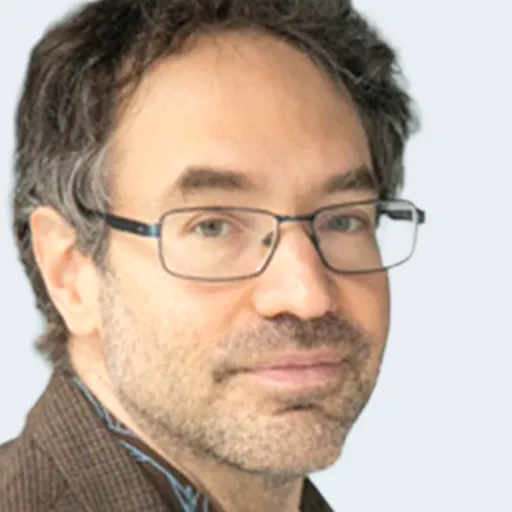
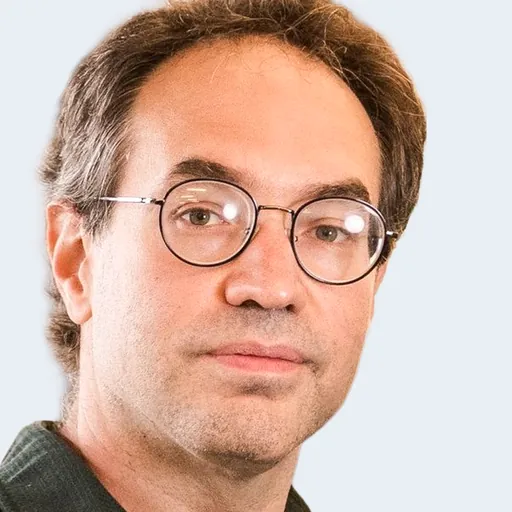
Ryan Baker's CIRCLS photo, cut hard rather than faded; plugin 1.1.2
The photo Brendan sent (circls.org, 488x631) is tighter than the Adelaide
one: cut at the crown, through his hair on the right, and across the
chest. 1.40x with the eye line 6% lower grounds him, down from 1.55x.
Clearing the cut through his hair would take 2.11x with the top of his
head off the tile, so a new 'hard' entry in THE EXCEPTIONS leaves his
photograph's edges as hard cuts with no fade, at the client's choice:
his hair is sliced on the right, and nothing of him fades. Every other
cut-out re-frames byte-for-byte unchanged.

The headshot ships in the plugin, so it is 1.1.2, with a changelog entry
and START-HERE describing it.

Claude-Session: https://claude.ai/code/session_01XG348wN5ByY34urU5UZMf6

diff --git a/wordpress-handoff/pages/approach.html b/wordpress-handoff/pages/approach.html
@@ -1,5 +1,5 @@
 <!doctype html>
-<!-- exported from 8ff23a9fbe66406bed281b73741681dc33480e87 by tools/export-static.mjs; index.html sha256 a05336308d6a4cd6 -->
+<!-- exported from a6083a7e9554353fb23b53a940c575bb207114e6 by tools/export-static.mjs; index.html sha256 a05336308d6a4cd6 -->
 <html lang="en"><head>
 <meta charset="utf-8">
 <meta name="viewport" content="width=device-width, initial-scale=1">

diff --git a/wordpress-handoff/pages/challenge.html b/wordpress-handoff/pages/challenge.html
@@ -1,5 +1,5 @@
 <!doctype html>
-<!-- exported from 8ff23a9fbe66406bed281b73741681dc33480e87 by tools/export-static.mjs; index.html sha256 a05336308d6a4cd6 -->
+<!-- exported from a6083a7e9554353fb23b53a940c575bb207114e6 by tools/export-static.mjs; index.html sha256 a05336308d6a4cd6 -->
 <html lang="en"><head>
 <meta charset="utf-8">
 <meta name="viewport" content="width=device-width, initial-scale=1">

diff --git a/wordpress-handoff/pages/follow.html b/wordpress-handoff/pages/follow.html
@@ -1,5 +1,5 @@
 <!doctype html>
-<!-- exported from 8ff23a9fbe66406bed281b73741681dc33480e87 by tools/export-static.mjs; index.html sha256 a05336308d6a4cd6 -->
+<!-- exported from a6083a7e9554353fb23b53a940c575bb207114e6 by tools/export-static.mjs; index.html sha256 a05336308d6a4cd6 -->
 <html lang="en"><head>
 <meta charset="utf-8">
 <meta name="viewport" content="width=device-width, initial-scale=1">

diff --git a/wordpress-handoff/pages/home.html b/wordpress-handoff/pages/home.html
@@ -1,5 +1,5 @@
 <!doctype html>
-<!-- exported from 8ff23a9fbe66406bed281b73741681dc33480e87 by tools/export-static.mjs; index.html sha256 a05336308d6a4cd6 -->
+<!-- exported from a6083a7e9554353fb23b53a940c575bb207114e6 by tools/export-static.mjs; index.html sha256 a05336308d6a4cd6 -->
 <html lang="en"><head>
 <meta charset="utf-8">
 <meta name="viewport" content="width=device-width, initial-scale=1">

diff --git a/wordpress-handoff/pages/team.html b/wordpress-handoff/pages/team.html
@@ -1,5 +1,5 @@
 <!doctype html>
-<!-- exported from 8ff23a9fbe66406bed281b73741681dc33480e87 by tools/export-static.mjs; index.html sha256 a05336308d6a4cd6 -->
+<!-- exported from a6083a7e9554353fb23b53a940c575bb207114e6 by tools/export-static.mjs; index.html sha256 a05336308d6a4cd6 -->
 <html lang="en"><head>
 <meta charset="utf-8">
 <meta name="viewport" content="width=device-width, initial-scale=1">

diff --git a/tools/cutout-headshots.py b/tools/cutout-headshots.py
@@ -146,10 +146,15 @@ THE EXCEPTIONS are three photographs too tight for any of this, each enlarged pa
 because the client chose a larger face over a fade (October 2026), with the trade shown on a
 sheet beside a normally framed tile:
 - Nicolle's selfie cuts through her hair at the left, which THE CROP clears at 1.35x.
-- Ryan's is cut at the hairline and across the chest: 1.55x. A 1.29x framing that grounded
-  him by stretching reached his jaw, which is not a trade this makes on someone's face;
-  enlarging stretches nothing. (Filling the tile this way was declined once, before the
-  fades were weighed against it.)
+- Ryan's, from CIRCLS, is cut at the crown, through his hair on the right, and across the
+  chest below the chin: 1.40x, with the eye line 6% lower, grounds him. The cut through his
+  hair is above the chin and too far in to crop off (that took 2.11x, with the top of his
+  head off the tile), so his photograph's edges are left hard rather than faded ('hard'):
+  the client would rather see his hair sliced on the right than any part of him fade
+  (October 2026). The bottom edge lands on the tile's own, so only the right shows.
+  (His previous photograph, from Adelaide, was cut at the hairline and the chest and took
+  1.55x; a 1.29x framing that grounded it by stretching reached his jaw, which is not a
+  trade this makes on someone's face.)
 - Byungyeon's passport photo cuts the shoulders 18% in from both sides. Removing the fade
   took 1.54x, which in a passport photo read as a giant close-up, so his is fixed at the step
   the client picked from a sheet running from 1.20x to 1.54x: 1.35x, with the eye line 12%
@@ -163,7 +168,8 @@ measured from the cut itself — the stretch of the border the matte actually to
 from the whole edge, so a photo cut at the shoulder does not also fade the cheek above it.
 Before the stretch and the reach, nine photos faded like this, and they looked different
 from everyone else. Since October 2026 only a trace of Byungyeon's right shoulder does:
-Allison's is cropped, and his, Nicolle's and Ryan's are THE EXCEPTIONS. Before that, two shared fades were tried to hide
+Allison's is cropped, his and Nicolle's are THE EXCEPTIONS, and Ryan's edges are cut
+hard instead (see THE EXCEPTIONS). Before that, two shared fades were tried to hide
 the fading few, and both went:
 - A single vignette tuned so every one of those cuts fell where it had already faded
   out. Ryan's chest and Byungyeon's shoulders force it to finish just below everybody's
@@ -222,8 +228,12 @@ HEADROOM = 0.04   # THE HEADROOM: the least room between the crown and the tile'
 # where the least that removes the fade is too much: Byungyeon's needed 1.54x, which turned
 # his passport photo into a giant close-up the client called ridiculous, so his is the step
 # the client picked from a sheet of them, 1.35x, which leaves a trace of fade on his right
-# shoulder. Remove an entry when a looser photograph arrives: it will not need it.
-ENLARGED = {'byungyeon-yun': {'fixed': 1.35, 'drop': 0.2}, 'nicolle-desilva': {'zoom': 1.4}, 'ryan-baker': {'zoom': 1.6}}
+# shoulder. 'hard' leaves every edge the photograph cuts the person at as a hard edge, with
+# no fade: Ryan's is cut through his hair on the right, and the client would rather it look
+# sliced than have any of him fade. Remove an entry when a looser photograph arrives: it will
+# not need it.
+ENLARGED = {'byungyeon-yun': {'fixed': 1.35, 'drop': 0.2}, 'nicolle-desilva': {'zoom': 1.4},
+            'ryan-baker': {'zoom': 1.6, 'hard': True}}
 
 
 def pictured():
@@ -482,7 +492,8 @@ def frame(slug):
                 cut[span[hit], at] = True
             depth[k] = (at if k in ('top', 'left') else T - 1 - at) / T
     fade = np.ones((T, T), np.float32)
-    if cut.any():
+    hard = bool(ENLARGED.get(slug, {}).get('hard'))  # THE EXCEPTIONS: cut, never faded
+    if cut.any() and not hard:
         import cv2
         t = np.clip(cv2.distanceTransform((~cut).astype(np.uint8), cv2.DIST_L2, 5) / (EDGE_FADE * T), 0, 1)
         fade = t * t * (3 - 2 * t)
@@ -508,7 +519,7 @@ def frame(slug):
     Image.fromarray(out, 'RGBA').save(os.path.join(OUT, slug + '.webp'), lossless=True, quality=100, method=6, exact=False)
     return {
         'source': f'{W}x{H}', 'face_px': round(fh), 'eye_line': how, 'scale': round(s * 512 / T, 2),
-        'cuts': depth, 'extended': extended, 'face_kept': round(face_kept, 3), 'white_point': round(p), 'lift': round(lift, 3),
+        'cuts': {} if hard else depth, 'hard': depth if hard else {}, 'extended': extended, 'face_kept': round(face_kept, 3), 'white_point': round(p), 'lift': round(lift, 3),
         **reach,
     }
 
@@ -537,7 +548,7 @@ def main():
         for s in todo:
             print(f'matting {s}', flush=True)
             subprocess.run([sys.executable, __file__, f'--matte={s}'], check=True)
-    warn, loose, beside, crowded, enlarged = [], [], [], [], []
+    warn, loose, beside, crowded, enlarged, sliced = [], [], [], [], [], []
     # scale is against the 512 the tile ships at, so anything over 1 is a photograph being
     # enlarged; "reach" is the enlargement of the face and lowering of the eye line, by THE
     # REACH and THE HEADROOM; "room" is the headroom above the crown;
@@ -558,6 +569,8 @@ def main():
             beside.append(f"{s} ({', '.join(k for k in r['not_shoulder'] if k not in r['cropped'] and k in r['cuts'])})")
         if s in ENLARGED:
             enlarged.append(f"{s} ({ENLARGED[s].get('fixed') or r['zoom']:.2f}x{', fixed' if ENLARGED[s].get('fixed') else ''})")
+        if r['hard']:
+            sliced.append(f"{s} ({pct(r['hard'])})")
         if r['headroom'] < HEADROOM - 0.0005:
             crowded.append(f"{s} ({r['headroom']:.1%})")
     if loose:
@@ -566,6 +579,8 @@ def main():
         print(f'\nmet above the chin and too far in to crop off, so left to the fade: {", ".join(beside)}.')
     if enlarged:
         print(f'\nenlarged past the shared limit by the client\'s choice (THE EXCEPTIONS): {", ".join(enlarged)}.')
+    if sliced:
+        print(f'\ncut hard where the photograph ends, not faded, by the client\'s choice (THE EXCEPTIONS): {", ".join(sliced)}.')
     if crowded:
         print(f'\nless than {HEADROOM:.0%} above the crown, the lowering having reached its limit: {", ".join(crowded)}.')
     if warn:

diff --git a/wordpress-handoff/plugin/augmented-ed/augmented-ed.php b/wordpress-handoff/plugin/augmented-ed/augmented-ed.php
@@ -2,7 +2,7 @@
 /**
  * Plugin Name:       AugmentED
  * Description:       The AugmentED pages, team and Follow form, drawn inside AERDF's own theme: five page templates, AugmentED team members as team posts, bio pages, and a Follow form that submits to HubSpot.
- * Version:           1.1.1
+ * Version:           1.1.2
  * Requires at least: 6.5
  * Tested up to:      7.1
  * Requires PHP:      8.0
@@ -30,7 +30,7 @@
 
 defined( 'ABSPATH' ) || exit;
 
-const AUGMENTED_ED_VERSION = '1.1.1';
+const AUGMENTED_ED_VERSION = '1.1.2';
 const AUGMENTED_ED_FILE    = __FILE__;
 define( 'AUGMENTED_ED_DIR', plugin_dir_path( __FILE__ ) );
 

diff --git a/wordpress-handoff/START-HERE.md b/wordpress-handoff/START-HERE.md
@@ -6,7 +6,7 @@ AERDF's header and footer stay, with AugmentED's navigation as a bar beneath the
 Assessment for Good's pages do — puts the AugmentED team into AERDF's existing **Team**
 post type, and connects the Follow form to HubSpot.
 
-This page describes version **1.1.1**. The whole procedure takes about an hour on each
+This page describes version **1.1.2**. The whole procedure takes about an hour on each
 environment, plus the HubSpot set-up in step 3.
 
 **Questions, at any step:** Brendan, [brendan@folkmark.com](mailto:brendan@folkmark.com) —
@@ -55,7 +55,7 @@ WP Engine User Portal → the environment → Backups → Back up now.
 Plugins → **Add Plugin** ("Add New Plugin" in older WordPress) → **Upload Plugin** → choose
 `augmented-ed-plugin.zip` → **Install Now** → **Activate Plugin**.
 
-Check the Plugins screen says **AugmentED 1.1.1**.
+Check the Plugins screen says **AugmentED 1.1.2**.
 
 The zip is about 22 MB, because it carries every image and animation frame the pages use. If
 WordPress answers "The link you followed has expired." or "The uploaded file exceeds the

diff --git a/wordpress-handoff/sections/leadership.md b/wordpress-handoff/sections/leadership.md
@@ -127,8 +127,9 @@ it is already done. They are 6–36 KB each. A photograph that stops a little sh
 the framing wants it is stretched or enlarged within limits. Three photographs too tight for
 those limits (Byungyeon Yun's, Nicolle DeSilva's and Ryan Baker's) are enlarged further, by
 the client's choice, rather than fade where the photo ends; Byungyeon's, at a size chosen to
-stay close to everyone else's, keeps a trace of fade at his right shoulder. All of it is baked
-into the file, not an effect to reproduce.
+stay close to everyone else's, keeps a trace of fade at his right shoulder, and Ryan's is cut
+straight on the right, where his photograph ends, rather than faded. All of it is baked into
+the file, not an effect to reproduce.
 
 They are made in two steps, and the split is on purpose. `tools/cutout-headshots.py`
 does the slow part once — a matting model, face and eye detection, the framing — and
